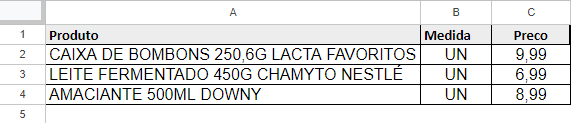
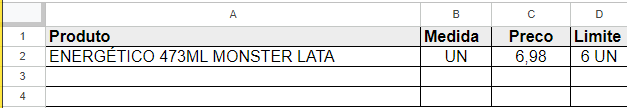
Inserindo limite opcional para geração de cartazes. | Formulário para cartazes únicos criado.

diff --git a/PosterMailer-front-end/src/components/PosterForm/index.jsx b/PosterMailer-front-end/src/components/PosterForm/index.jsx
@@ -8,21 +8,21 @@ import { SegmentedControl } from "@radix-ui/themes";
 import useSheetReader from "../../hooks/useSheetReader";
 import { MdDownload } from "react-icons/md";
 
-
 function PosterForm() {
-  const { register, handleSubmit, formState: { errors }, setValue, watch } = useForm();
+  const { register, handleSubmit, formState: { errors }, setValue, watch, reset } = useForm();
+  const [typeForm, setTypeForm] = useState("unico");
+  const [fadeTransition, setFadeTransition] = useState(false);
   const [isModalOpen, setIsModalOpen] = useState(false);
   const [downloadUrl, setDownloadUrl] = useState("");
   const [reqResponse, setReqResponse] = useState("");
-
 
   const image = "public/assets/images/tabela-modelo-cartazes.png";
   const modelFilePath = "public/assets/sheets/modelo-cartaz.xlsx";
 
   const fileWatch = watch('file');
   const { dataArray, loading: dataLoading, error } = useSheetReader(fileWatch, "cartazes");
-  console.log(dataArray);
 
+  console.log(dataArray);
   useEffect(() => {
     setValue("tamanho", "cartaz-grande");
     setDownloadUrl("");
@@ -32,30 +32,53 @@ function PosterForm() {
   const onSubmit = async (data) => {
     setDownloadUrl("");
     setReqResponse("");
+    console.log(data);
+    console.log(typeForm);
+
+    console.log(data.produto);
+
+    const body = typeForm === "planilha"
+      ? { tamanho: data.tamanho, sheet: dataArray }
+      : {
+        tamanho: data.tamanho, sheet: [
+          {
+            produto: data.produto,
+            preco: data.preco,
+            medida: data.medida,
+            limite: data.limite
+          }
+        ]
+      };
 
     try {
+
+      console.log(body);
+
       const response = await fetch('http://localhost:3333/api/posters', {
         method: 'POST',
         headers: {
           'Content-Type': 'application/json'
         },
-        body: JSON.stringify({ tamanho: data.tamanho, sheet: dataArray })
+        body: JSON.stringify(body)
       });
 
       const responseData = await response.json();
-      console.log(responseData);
-
       if (responseData.status === "Success") {
         setDownloadUrl(responseData.download);
         setReqResponse(responseData.message);
+        reset();
       }
     } catch (err) {
-      console.log("Erro ao criar cartaz: ", err);
+      console.error("Erro ao criar cartaz: ", err);
     }
   };
 
+  const handleTypeChange = (value) => {
+    setTypeForm(value);
+    setDownloadUrl("");
+  };
+
   const handleSizeChange = (value) => {
-    console.log(value);
     setValue("tamanho", value);
     setDownloadUrl("");
   };
@@ -64,22 +87,109 @@ function PosterForm() {
   const closeHelpModal = () => setIsModalOpen(false);
 
   return (
-    <div className="max-w-lg mx-auto p-6 bg-white shadow-lg rounded-lg">
-      <form onSubmit={handleSubmit(onSubmit)} className="space-y-6">
+    <div className="max-w-lg mx-auto p-4 bg-white shadow-lg rounded-lg">
+      <form onSubmit={handleSubmit(onSubmit)} className="space-y-4">
         <h2 className="text-center text-3xl font-bold mb-4 text-gray-800">Criação de Cartaz</h2>
-        <div className="mb-5">
-          <label className="block text-gray-600 mb-2 text-center">Selecione o Arquivo</label>
-          <Input
-            type="file"
-            name="file"
-            placeholder="Selecione o arquivo"
-            accept=".xlsx, .xls, .csv"
-            register={register}
-            validation={{ required: 'O arquivo é obrigatório' }}
-          />
-          {errors.file && <p className="text-center text-red-500 text-sm mt-1 w-full">{errors.file.message}</p>}
-          {error && <p className="text-center text-red-500 text-sm mt-1 w-full">{error}</p>}
+        <div className="flex justify-center">
+          <SegmentedControl.Root
+            value={typeForm}
+            onValueChange={handleTypeChange}
+            className="flex justify-center"
+            size="3"
+          >
+            <SegmentedControl.Item value="unico" className="px-6 py-2 bg-gray-200 rounded-md hover:bg-gray-300">Cartaz único</SegmentedControl.Item>
+            <SegmentedControl.Item value="planilha" className="px-6 py-2 bg-gray-200 rounded-md hover:bg-gray-300">Planilha</SegmentedControl.Item>
+          </SegmentedControl.Root>
         </div>
+        {typeForm === "unico" && (
+          <div className="space-y-4">
+            <div className="flex flex-col items-center">
+              <label htmlFor="produto" className="block text-gray-600 mb-2 text-center">Produto</label>
+              <Input
+                type="text"
+                name="produto"
+                placeholder="Descrição do Produto"
+                register={register}
+                validation={{ required: 'A descrição é obrigatória' }}
+                className="w-full text-center"
+              />
+              {errors.produto && <p className="text-red-500 text-sm text-center">{errors.produto.message}</p>}
+            </div>
+
+            <div className="flex items-start">
+              <div className="flex flex-col items-center w-1/2">
+                <label htmlFor="preco" className="block text-gray-600 mb-1 text-center">Preço</label>
+                <Input
+                  type="number"
+                  name="preco"
+                  step="0.01"
+                  register={register}
+                  validation={{
+                    required: 'O preço é obrigatório',
+                    min: { value: 0, message: 'O preço deve ser maior que 0' }
+                  }}
+                  className="w-28 text-center border border-gray-300 rounded-md p-2"
+                />
+                {errors.preco && <p className="text-red-500 text-sm text-center mt-1">{errors.preco.message}</p>}
+              </div>
+
+              <div className="flex flex-col items-center w-1/2">
+                <label htmlFor="medida" className="block text-gray-600 mb-1 text-center">Medida</label>
+                <select
+                  id="medida"
+                  {...register("medida", { required: 'A medida é obrigatória' })}
+                  className="w-28 border border-gray-300 rounded-md p-2"
+                >
+                  <option value="UN">UN</option>
+                  <option value="KG">KG</option>
+                </select>
+                {errors.medida && <p className="text-red-500 text-sm text-center mt-1">{errors.medida.message}</p>}
+              </div>
+
+              <div className="flex flex-col items-center w-1/2">
+                <label htmlFor="limite" className="block text-gray-600 mb-2 text-center">Limite</label>
+                <Input
+                  type="text"
+                  name="limite"
+                  placeholder="Limite?"
+                  register={register}
+                  className="w-28 border border-gray-300 rounded-md p-2"
+                />
+                {errors.limite && <p className="text-red-500 text-sm text-center">{errors.limite.message}</p>}
+              </div>
+            </div>
+
+            {/* <div>
+              <label htmlFor="medida" className="block text-gray-600 mb-2 text-center">Medida</label>
+              <select
+                id="medida"
+                {...register("medida", { required: 'A medida é obrigatória' })}
+                className="block mx-auto p-2 border border-gray-300 rounded-md"
+              >
+                <option value=""></option>
+                <option value="KG">KG</option>
+                <option value="UN">UN</option>
+              </select>
+              {errors.medida && <p className="text-red-500 text-sm text-center">{errors.medida.message}</p>}
+            </div> */}
+          </div>
+        )}
+
+        {typeForm === "planilha" && (
+          <div>
+            <label className="block text-gray-600 mb-2 text-center">Selecione o Arquivo</label>
+            <Input
+              type="file"
+              name="file"
+              placeholder="Selecione o arquivo"
+              accept=".xlsx, .xls, .csv"
+              register={register}
+              validation={{ required: 'O arquivo é obrigatório' }}
+            />
+            {errors.file && <p className="text-red-500 text-sm">{errors.file.message}</p>}
+            {error && <p className="text-red-500 text-sm">{error}</p>}
+          </div>
+        )}
 
         <div className="mb-5">
           <h5 className="text-center text-lg font-medium text-gray-600 mb-3">Qual o Modelo do Cartaz?</h5>
@@ -97,10 +207,10 @@ function PosterForm() {
                 Cartaz Pequeno - A5
               </SegmentedControl.Item>
             </SegmentedControl.Root>
-            {errors.tamanho && <p className="text-center text-red-500 text-sm mt-1 w-full">{errors.tamanho.message}</p>}
+            {errors.tamanho && <p className="text-red-500 text-sm mt-1">{errors.tamanho.message}</p>}
           </div>
-
         </div>
+
 
         <div className="text-center">
           {dataLoading ? (
@@ -112,7 +222,7 @@ function PosterForm() {
             <FormButton type="submit" text="Criar Cartaz" disabled={error || dataLoading || downloadUrl} />
           )}
         </div>
-      </form >
+      </form>
       {downloadUrl && (
         <div>
           <p className="text-center mt-4 text-green-500">{reqResponse} Clique no botão abaixo para fazer o download</p>
@@ -120,8 +230,8 @@ function PosterForm() {
             <FormButton text={<MdDownload className="mr-1 text-xl" />} />
           </a>
         </div>
-
       )}
+
       <div className="flex justify-center my-2 py-2">
         <label className="form-label-custom fs-2">
           Dúvidas quanto ao Layout? <a
@@ -140,8 +250,8 @@ function PosterForm() {
       {isModalOpen && (
         <div className="fixed inset-0 bg-black bg-opacity-50 backdrop-blur-sm z-40"></div>
       )}
-    </div >
+    </div>
   );
-};
+}
 
 export default PosterForm;

diff --git a/PosterMailer-front-end/src/pages/PosterMailer/index.jsx b/PosterMailer-front-end/src/pages/PosterMailer/index.jsx
@@ -19,22 +19,24 @@ function PosterMailer() {
 
   return (
     <>
-      <Header title={"Ferramentas"} />
-      <div className="container mx-auto my-5">
-        <div className="flex justify-center">
-          <SegmentedControl.Root
-            value={activeForm}
-            onValueChange={handleFormChange}
-            className="flex justify-center"
-            size="3"
-          >
-            <SegmentedControl.Item value="cartazes" className="px-6 py-2 bg-gray-200 rounded-md hover:bg-gray-300">Cartazes</SegmentedControl.Item>
-            <SegmentedControl.Item value="emails" className="px-6 py-2 bg-gray-200 rounded-md hover:bg-gray-300">Emails</SegmentedControl.Item>
-          </SegmentedControl.Root>
-        </div>
-        <div className="form-container bg-white p-6 rounded-lg shadow-lg max-w-lg mx-auto">
-          <div className={`transition-opacity duration-300 ${fadeTransition ? 'opacity-0' : 'opacity-100'}`}>
-            {activeForm === 'cartazes' ? <PosterForm /> : <EmailForm />}
+      <div className="overflow-hidden">
+        <Header title={"Ferramentas"} />
+        <div className="container mx-auto my-5">
+          <div className="flex justify-center">
+            <SegmentedControl.Root
+              value={activeForm}
+              onValueChange={handleFormChange}
+              className="flex justify-center"
+              size="3"
+            >
+              <SegmentedControl.Item value="cartazes" className="px-6 py-2 bg-gray-200 rounded-md hover:bg-gray-300">Cartazes</SegmentedControl.Item>
+              <SegmentedControl.Item value="emails" className="px-6 py-2 bg-gray-200 rounded-md hover:bg-gray-300">Emails</SegmentedControl.Item>
+            </SegmentedControl.Root>
+          </div>
+          <div className="form-container bg-white p-6 rounded-lg shadow-lg max-w-lg mx-auto">
+            <div className={`transition-opacity duration-300 ${fadeTransition ? 'opacity-0' : 'opacity-100'}`}>
+              {activeForm === 'cartazes' ? <PosterForm /> : <EmailForm />}
+            </div>
           </div>
         </div>
       </div>

diff --git a/PosterMailer-back-end/src/services/GeneratePostersService.ts b/PosterMailer-back-end/src/services/GeneratePostersService.ts
@@ -64,7 +64,7 @@ class GeneratePostersService {
             absolutePosition: { x: 17, y: 720 },
           },
           {
-            text: row.preco,
+            text: row.preco.replace(".", ","),
             bold: true,
             fontSize: 170,
             alignment: "center",
@@ -76,10 +76,21 @@ class GeneratePostersService {
             fontSize: 30,
             alignment: "right",
             absolutePosition: { x: 0, y: 720 },
-          }
+          },
+
         ],
         margin: [0, 0, 0, 20],
       };
+
+      if (row.limite) {
+        pageContent.stack.push({
+          text: `LIMITADO A ${row.limite} POR CLIENTE`,
+          bold: true,
+          fontSize: 24,
+          alignment: "center",
+          absolutePosition: { x: 10, y: 760 }
+        });
+      }
 
       if (index < data.length - 1) {
         pageContent.stack.push({ text: "", pageBreak: "after" });

diff --git a/PosterMailer-front-end/src/components/Input/index.jsx b/PosterMailer-front-end/src/components/Input/index.jsx
@@ -1,4 +1,4 @@
-function Input({ type, placeholder, name, onChange, accept, register, validation }) {
+function Input({ type, placeholder, name, onChange, accept, step, register, validation, className }) {
   return (
     <input
       type={type}
@@ -6,8 +6,9 @@ function Input({ type, placeholder, name, onChange, accept, register, validation
       name={name}
       onChange={onChange}
       accept={accept}
+      step={step}
       {...register(name, validation)}
-      className="flex-1 py-2 px-6 outline-none bg-transparent text-gray-700 placeholder-gray-400 border rounded-lg"
+      className={`flex-1 py-2 px-6 outline-none bg-transparent text-gray-700 placeholder-gray-400 border rounded-lg ${className}`}
     />);
 }
 

diff --git a/PosterMailer-front-end/src/hooks/useSheetReader.js b/PosterMailer-front-end/src/hooks/useSheetReader.js
@@ -8,7 +8,7 @@ const useSheetReader = (sheet, type) => {
 
   const expectedTypes = ["cartazes", "emails"];
 
-  const expectedHeadersForPosters = ["produto", "medida", "preco"];
+  const expectedHeadersForPosters = ["produto", "medida", "preco", "limite"];
   const expectedHeadersForEmails = ["destinatario", "fornecedor", "valor", "metodo", "vencimento", "referencia"];
 
   useEffect(() => {

diff --git a/PosterMailer-back-end/src/types/posterContent.ts b/PosterMailer-back-end/src/types/posterContent.ts
@@ -2,6 +2,7 @@ type posterContent = {
   produto: string;
   medida: string;
   preco: string;
+  limite?: string;
 };
 
 export default posterContent;
